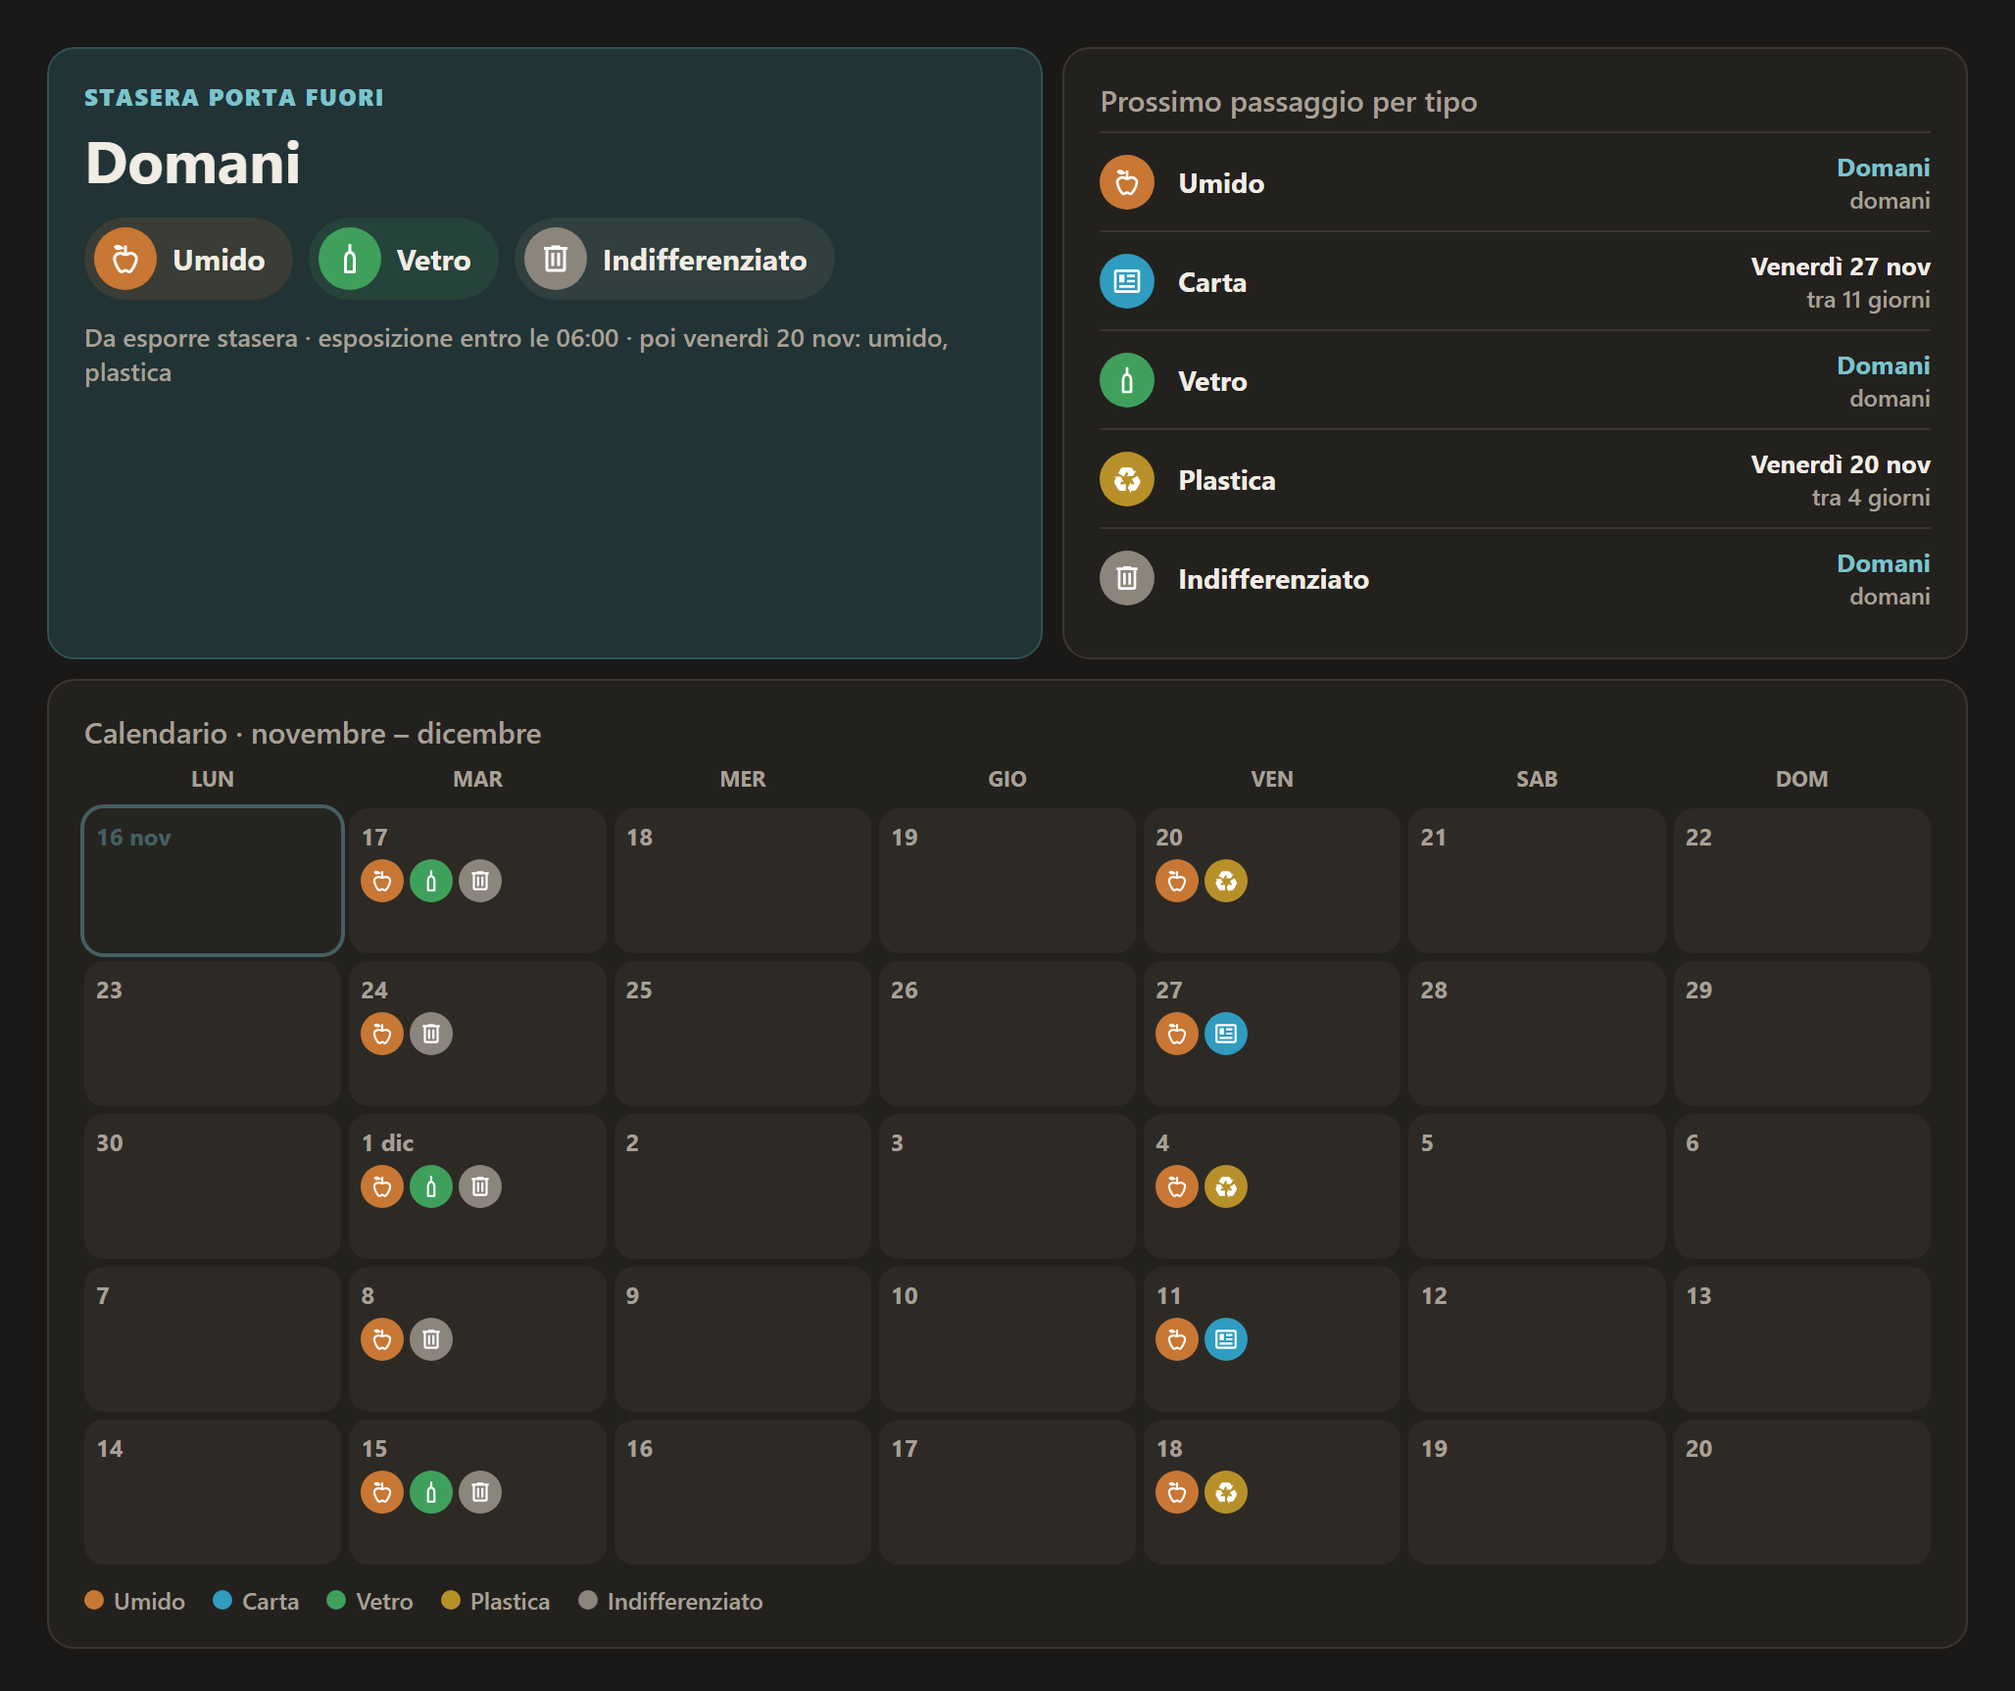
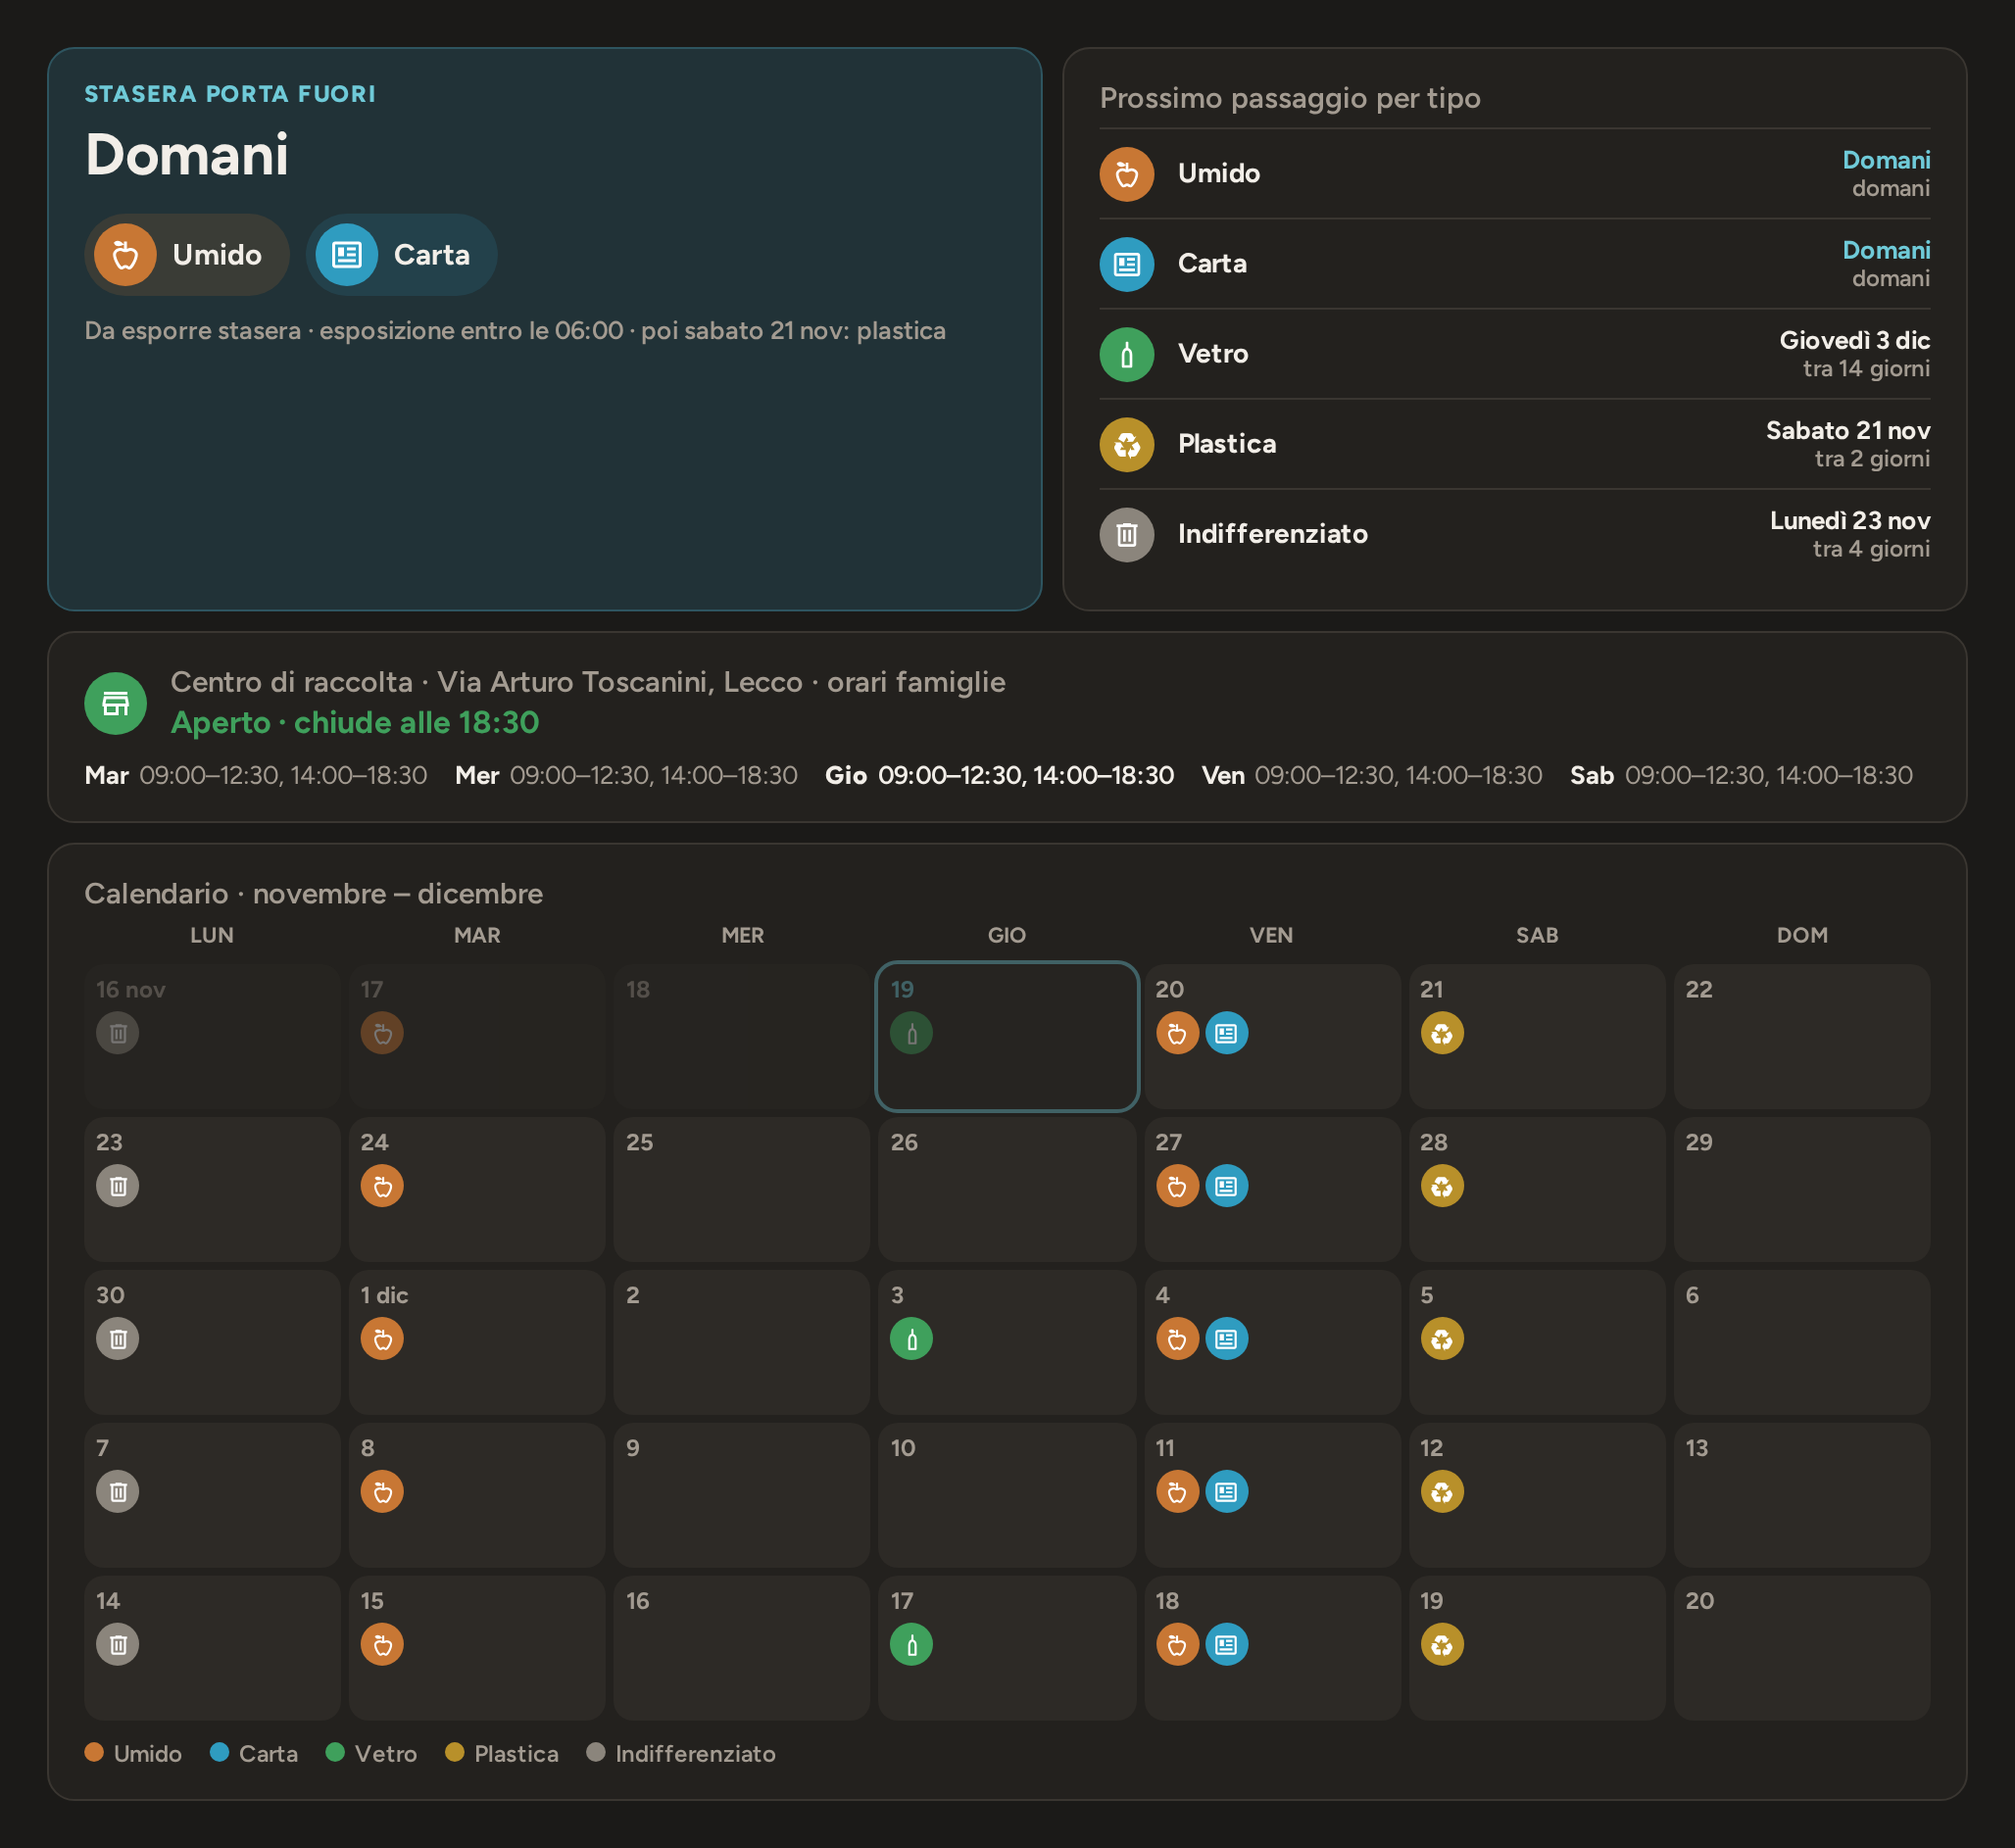
Scheda: orari famiglie o ditte, screenshot aggiornati
- il pannello del centro di raccolta dice per chi valgono gli orari
  ("orari famiglie" o "orari ditte"; niente se valgono per tutti)
- screenshot chiaro e scuro con il pannello del centro di raccolta,
  con dati di esempio di Lecco
- link agli screenshot nel README con la versione, per non mostrare
  quelli in cache
- versione 0.3.1

diff --git a/custom_components/silea_rifiuti/frontend/silea-rifiuti-card.js b/custom_components/silea_rifiuti/frontend/silea-rifiuti-card.js
@@ -6,7 +6,7 @@
 // weeks: 5                                           (settimane nel calendario)
 // names: {indifferenziato: Secco}                    (nomi personalizzati per tipo)
 // centro: false                                      (nasconde il centro di raccolta; oppure l'entità binary_sensor da usare)
-const VERSION = '0.3.0';
+const VERSION = '0.3.1';
 const TIPI = {
   umido: { n: 'Umido', i: 'mdi:food-apple-outline', c: '#c87734' },
   carta: { n: 'Carta', i: 'mdi:newspaper-variant-outline', c: '#2f9cc0' },
@@ -156,13 +156,15 @@ class SileaRifiutiCard extends HTMLElement {
     };
     const stato = aperto ? `Aperto · chiude alle ${hhmm(new Date(a.chiude_alle))}`
       : a.prossima_apertura ? `Chiuso · apre ${quando(a.prossima_apertura)}` : 'Chiuso';
+    // "Utenze domestiche (famiglie)" → "orari famiglie"; niente se gli orari valgono per tutti.
+    const chi = (String(a.utenza || '').match(/\(([^)]+)\)/) || [])[1];
     const oggi = WD[now.getDay()];
     const giorni = Object.entries(a.orario || {}).filter(([, h]) => h !== 'chiuso');
     const orario = giorni.length
       ? giorni.map(([g, h]) => `<span class="og ${g === oggi ? 'now' : ''}"><b>${esc(g.slice(0, 3))}</b> ${esc(h.replace(/-/g, '–'))}</span>`).join('')
       : `<span class="og">${esc(a.nota || 'Orario non disponibile')}</span>`;
     return `<div class="p cr"><div class="crh"><span class="dot" style="background:${aperto ? '#3fa05c' : '#8b857c'}"><ha-icon icon="mdi:store-outline"></ha-icon></span>
-        <div><div class="h" style="margin:0">Centro di raccolta · ${esc(a.indirizzo || a.centro || '')}</div>
+        <div><div class="h" style="margin:0">Centro di raccolta · ${esc(a.indirizzo || a.centro || '')}${chi ? ` · orari ${esc(chi)}` : ''}</div>
         <div class="st ${aperto ? 'on' : ''}">${esc(stato)}</div></div></div>
         <div class="ore">${orario}</div></div>`;
   }

diff --git a/custom_components/silea_rifiuti/const.py b/custom_components/silea_rifiuti/const.py
@@ -3,7 +3,7 @@
 from datetime import timedelta
 
 DOMAIN = "silea_rifiuti"
-VERSION = "0.3.0"
+VERSION = "0.3.1"
 REPO_URL = "https://github.com/MCoLoL/silea-rifiuti"
 
 # Si presenta in modo riconoscibile, così Silea sa chi fa le richieste e dove trovare il progetto.

diff --git a/README.md b/README.md
@@ -9,7 +9,7 @@ Non è un'integrazione ufficiale di Silea: usa gli stessi dati della pagina "Cal
 ogni 12 ore circa (con uno scarto diverso per ogni installazione), e si presenta con uno User-Agent che rimanda a questo repository.
 Se Silea chiede di modificarla o di toglierla, verrà fatto: per segnalazioni apri una [issue](https://github.com/MCoLoL/silea-rifiuti/issues).
 
-![Scheda Silea Rifiuti](https://raw.githubusercontent.com/MCoLoL/silea-rifiuti/main/docs/scheda.png)
+![Scheda Silea Rifiuti](https://raw.githubusercontent.com/MCoLoL/silea-rifiuti/main/docs/scheda.png?v=0.3.1b)
 
 ## Cosa crea
 
@@ -54,7 +54,7 @@ I tipi sono `umido`, `carta`, `vetro`, `plastica`, `indifferenziato`.
 
 <details><summary>Tema scuro</summary>
 
-![Scheda Silea Rifiuti, tema scuro](https://raw.githubusercontent.com/MCoLoL/silea-rifiuti/main/docs/scheda-scura.png)
+![Scheda Silea Rifiuti, tema scuro](https://raw.githubusercontent.com/MCoLoL/silea-rifiuti/main/docs/scheda-scura.png?v=0.3.1b)
 
 </details>
 
